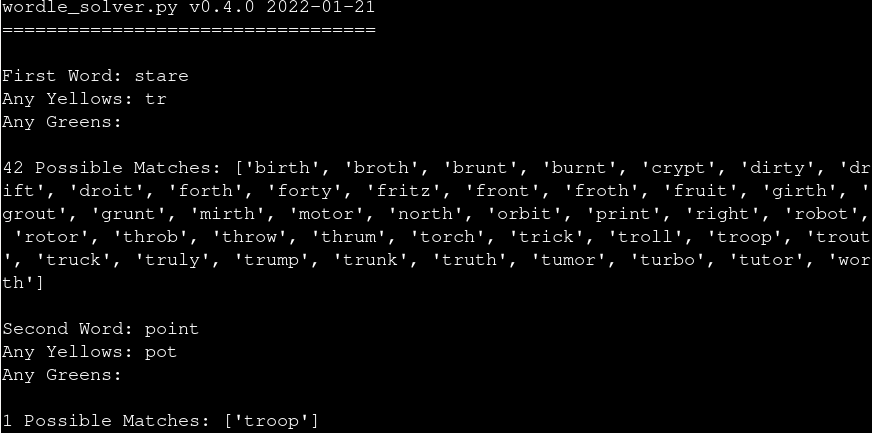
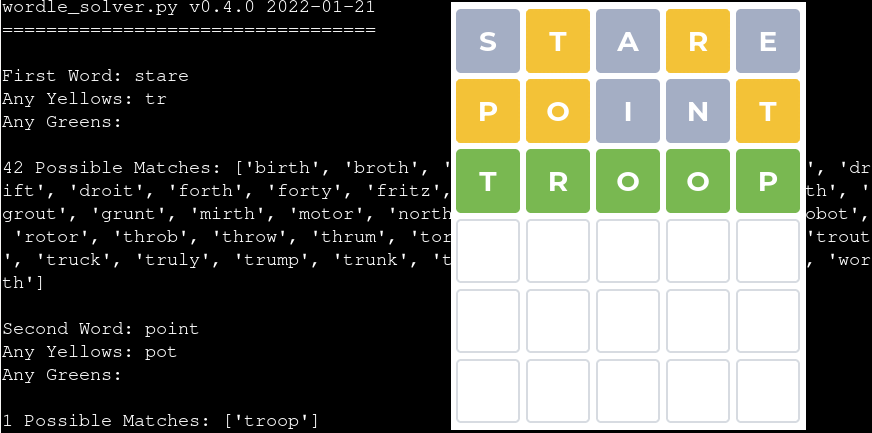
[0.4.1] - 2022-01-21 ## [0.4.1] - 2022-01-21 ### Changed - README.md: Cleaned up headers. - wordle_solver.png: Combined two screenshots into one image. - wordle_solver.py: Fixed grammar.

diff --git a/wordle_solver/wordle_solver.py b/wordle_solver/wordle_solver.py
@@ -421,7 +421,7 @@ def main():
                 track_bad_letters=track_bad_letters,
             )
 
-            print(f"""{len(matching_df.sum(axis=1).tolist())} Possible Matches: {matching_df.sum(axis=1).tolist()}""")
+            print(f"""{len(matching_df.sum(axis=1).tolist())} Possible Match(es): {matching_df.sum(axis=1).tolist()}""")
             print("")
             # If only one solution is provided, quit.
             if len(matching_df.sum(axis=1).tolist()) == 1:

diff --git a/wordle_solver/config.py b/wordle_solver/config.py
@@ -9,7 +9,7 @@ import os
 app_dict = {
     "author": "Aaron Melton <aaron@aaronmelton.com>",
     "date": "2022-01-21",
-    "desc": "A Python script that produces a list of possible words based on results from playing Wordle.",
+    "desc": "A Python script that produces a list of possible words based on your results from playing Wordle.",
     "name": "wordle_solver.py",
     "title": "Wordle Solver",
     "url": "https://github.com/aaronmelton/wordle_solver",

diff --git a/README.md b/README.md
@@ -2,12 +2,10 @@
 
 A Python script that produces a list of possible words based on results from playing Wordle.
 
-## Getting Started
-
-### About This Code
+## About This Code
 I wrote this script to gain some experience working with Pandas Data Frames.  And give me an extra edge competing with family/friends for the best Wordle score. :)
 
-#### Algorithm/How To Use
+### Algorithm/How To Use
 1. Provide the script with the word you entered and any matching yellow/green letters.
 2. The script will reduce the list of possible words by:
 	1. If a green letter is revealed, the script will remove all words that do not contain the green letter in the revealed position.
@@ -16,22 +14,20 @@ I wrote this script to gain some experience working with Pandas Data Frames.  An
 	4. Repeat for each word until only one match remains or all six words have been used.
 3. Provide the user with a list of possible matches after each word.
 
-#### Hints
+### Hints
 * After guessing your first word you don't have to guess a word using the list provided by the script.  (See usage below.)
 * Guess using a word not on the list and not reusing any letters in the previous word can rule out additional letters, reveal more matching letters and greatly reduce the number of words left to choose from.
 
-### Prerequisites
+## Prerequisites
 * Set environment variables (see config.py).
 
-#### Python Libraries
+### Python Libraries
 * See [pyproject.toml](pyproject.toml)
 * Only pandas is required to run the script; All others are for testing code.
 
-### Instructions For Use
+## Instructions For Use
 
 * `python wordle_solver.py`
-
-![wordle_game](wordle_game.png)
 
 ![wordle_solver](wordle_solver.png)
 

diff --git a/TODO.md b/TODO.md
@@ -4,4 +4,4 @@
 2. Remove logging; Does anyone else actually care about this?
 3. Add a function to generate words not in the list of possibilities but not reusing any already-used words?
 4. Order words in list based on statistical letter distribution (most common letters in English)?
-5. Reduce Docker Image size (307MB!?)
+5. Order words in list based on common letters (increase possibility of a hit?)

diff --git a/CHANGELOG.md b/CHANGELOG.md
@@ -1,6 +1,12 @@
 # CHANGELOG
 
-## [0.4.0] - 2022-01-20
+## [0.4.1] - 2022-01-21
+### Changed
+- README.md: Cleaned up headers.
+- wordle_solver.png: Combined two screenshots into one image.
+- wordle_solver.py: Fixed grammar.
+
+## [0.4.0] - 2022-01-21
 ### Added
 - get_input(), validate_input(): Added input validation.
 - remove_columns(): Removed columns (rows, really) where yellows did not match.
